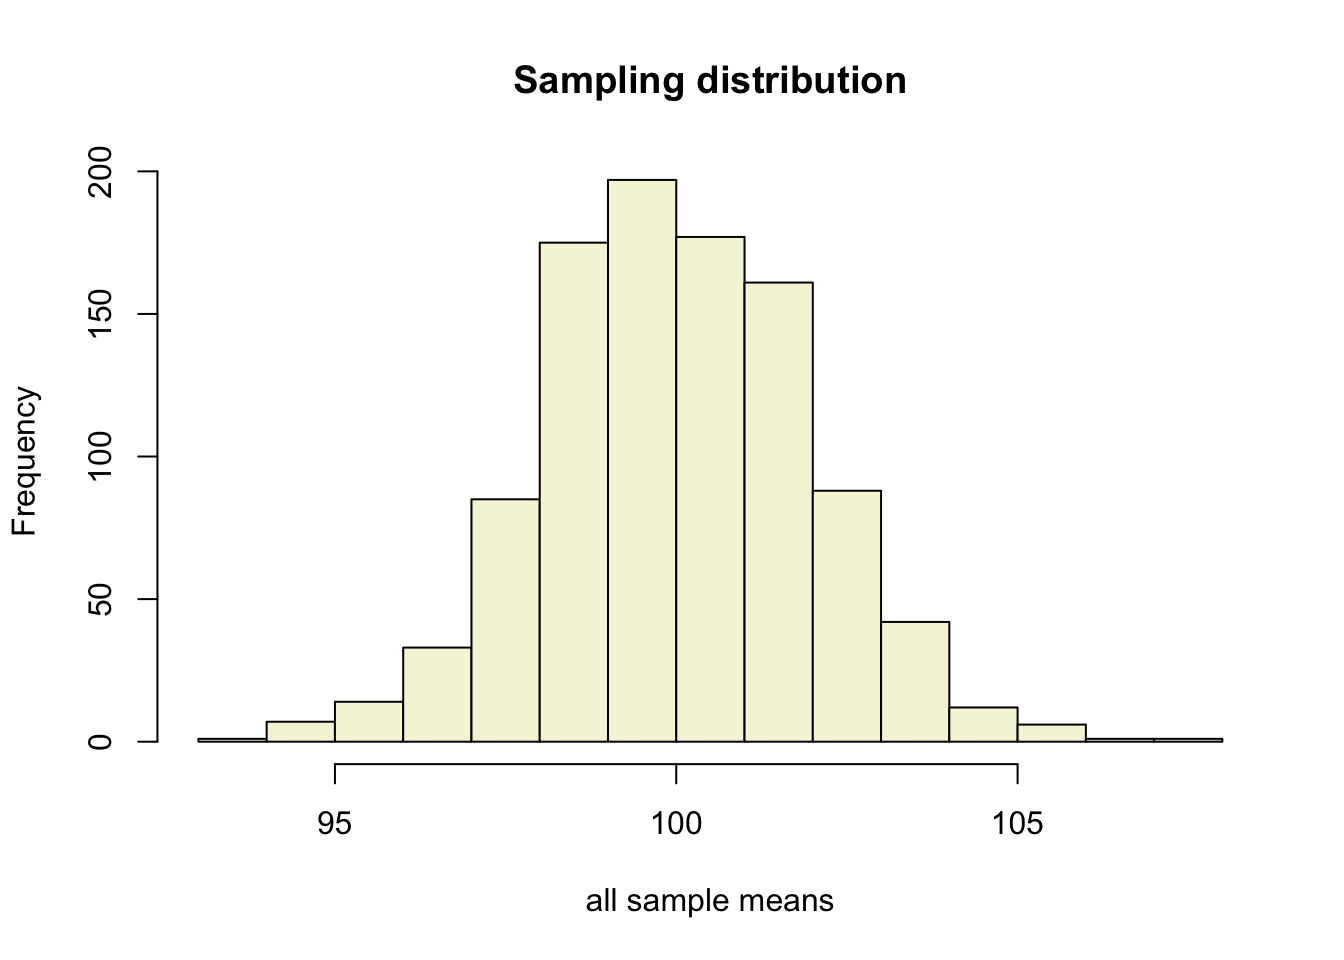
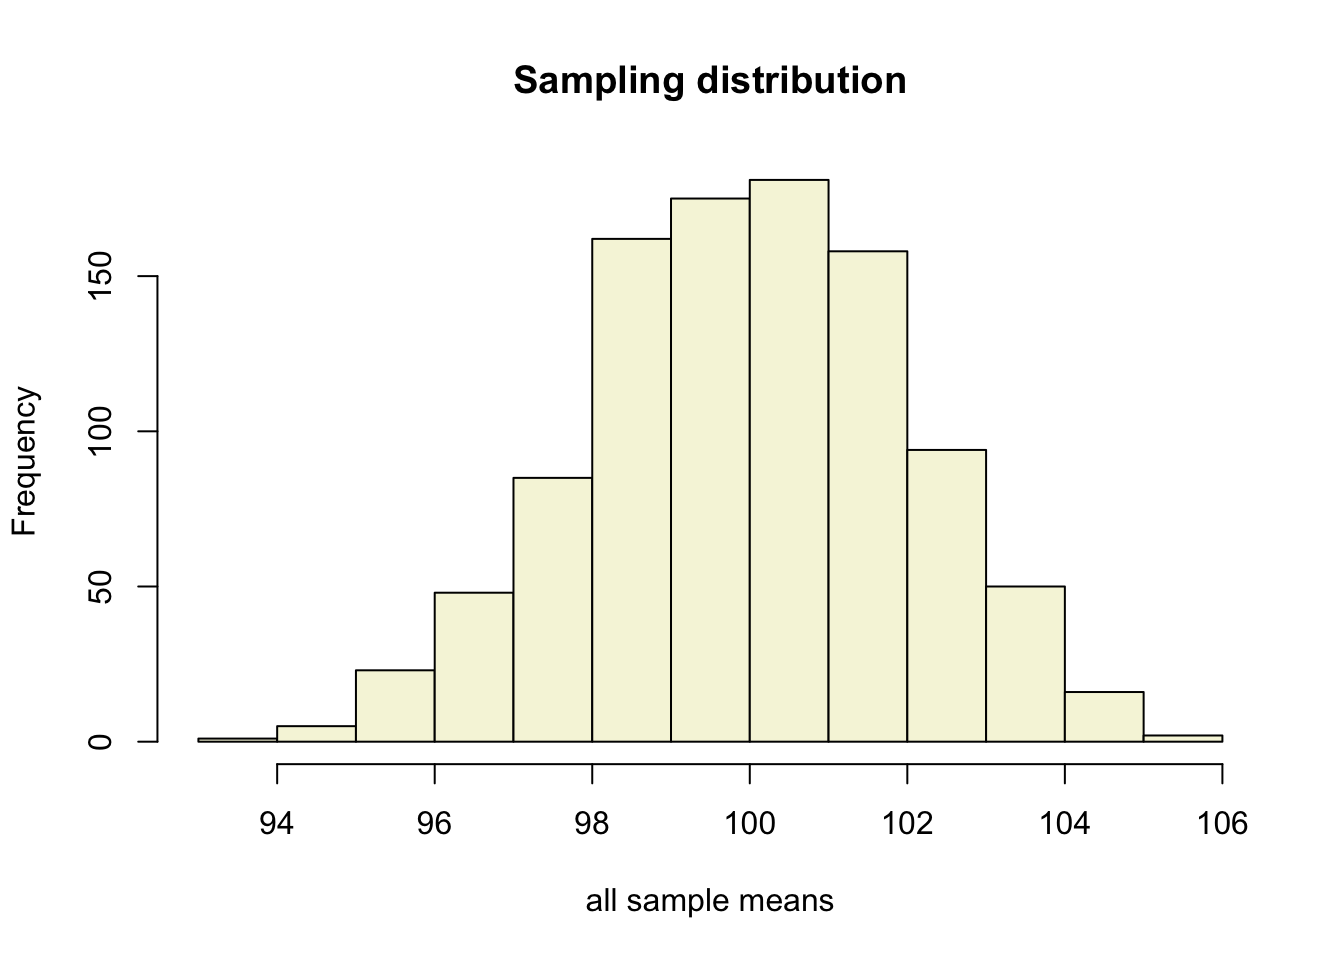
weird cell

diff --git a/courses/SSR/SSR_2023-2024/7. t_distribution_and_test/7. t_distribution_and_test.html b/courses/SSR/SSR_2023-2024/7. t_distribution_and_test/7. t_distribution_and_test.html
@@ -263,14 +263,14 @@ pre > code.sourceCode > span > a:first-child::before { text-decoration: underlin
 <div class="cell">
 <div class="sourceCode cell-code" id="cb2"><pre class="sourceCode r code-with-copy"><code class="sourceCode r"><span id="cb2-1"><a href="#cb2-1" aria-hidden="true" tabindex="-1"></a>x <span class="ot">&lt;-</span> <span class="fu">rnorm</span>(n, mu, sigma); x</span></code><button title="Copy to Clipboard" class="code-copy-button"><i class="bi"></i></button></pre></div>
 <div class="cell-output cell-output-stdout">
-<pre><code> [1] 106.61471  96.69208 103.05806 109.64763 103.94144 127.33282  82.16443
- [8] 121.25621 108.95569 109.42284 120.80316 106.09926 107.80408  99.80659
-[15] 108.96825 116.48962 117.59526 102.21007  93.63240  84.18790 100.96647
-[22]  96.04047 127.95559 100.71916  84.99554 112.83489  86.70702 111.36272
-[29] 104.94195 123.30431  89.80214  97.43633  82.67958  88.00506  72.20622
-[36]  99.51324 112.97421  92.25787  98.15301  91.95618 106.06002 122.93823
-[43] 114.37223 118.71460  86.95058  98.95727 107.61321 103.83504  98.73776
-[50]  86.87520  54.34775  89.00092 114.72518 101.22989 116.20537  83.09240</code></pre>
+<pre><code> [1] 117.53806 112.38659 109.41768  79.33235 116.83543 104.21535 122.87857
+ [8]  94.90843  89.48618 112.91395  99.20825 106.46184 131.74004  82.14418
+[15] 111.57398 109.79243  97.72677  83.79089  81.78326 100.89139 115.10130
+[22]  75.32715 112.22988 123.98195  73.17591  95.92838  92.59950  66.89840
+[29]  88.61695  94.91262 104.45585 102.52563  86.30557  75.25092  81.44598
+[36] 105.77969  74.25070  74.97944  95.27278  95.53276  91.96889  72.08836
+[43] 103.09970  96.06886  86.66781 103.81329 108.40771  97.02685  73.56282
+[50]  92.51813 103.11531 124.09075  83.25787 105.63971  95.17608 121.76949</code></pre>
 </div>
 </div>
 <div class="cell" data-output-location="slide">
@@ -302,12 +302,12 @@ pre > code.sourceCode > span > a:first-child::before { text-decoration: underlin
 <div class="sourceCode cell-code" id="cb6"><pre class="sourceCode r code-with-copy"><code class="sourceCode r"><span id="cb6-1"><a href="#cb6-1" aria-hidden="true" tabindex="-1"></a><span class="fu">head</span>(<span class="fu">cbind</span>(mean.x.values, se.x.values))</span></code><button title="Copy to Clipboard" class="code-copy-button"><i class="bi"></i></button></pre></div>
 <div class="cell-output cell-output-stdout">
 <pre><code>     mean.x.values se.x.values
-[1,]      99.33111    2.087445
-[2,]     101.11219    1.828331
-[3,]     101.80348    1.733201
-[4,]     101.61086    2.204491
-[5,]     101.92652    2.254120
-[6,]     101.70653    1.755069</code></pre>
+[1,]     102.07447    1.745172
+[2,]     102.99124    2.057352
+[3,]     100.64180    1.903556
+[4,]     100.55701    2.010758
+[5,]     100.88848    1.800400
+[6,]      99.63374    1.737883</code></pre>
 </div>
 </div>
 </section>
@@ -336,7 +336,7 @@ pre > code.sourceCode > span > a:first-child::before { text-decoration: underlin
 <div class="sourceCode cell-code" id="cb9"><pre class="sourceCode r code-with-copy"><code class="sourceCode r"><span id="cb9-1"><a href="#cb9-1" aria-hidden="true" tabindex="-1"></a>tStat <span class="ot">&lt;-</span> (<span class="fu">mean</span>(x) <span class="sc">-</span> mu) <span class="sc">/</span> (<span class="fu">sd</span>(x) <span class="sc">/</span> <span class="fu">sqrt</span>(n))</span>
 <span id="cb9-2"><a href="#cb9-2" aria-hidden="true" tabindex="-1"></a>tStat</span></code><button title="Copy to Clipboard" class="code-copy-button"><i class="bi"></i></button></pre></div>
 <div class="cell-output cell-output-stdout">
-<pre><code>[1] 0.7275644</code></pre>
+<pre><code>[1] 0.4982306</code></pre>
 </div>
 </div>
 </section>
@@ -349,12 +349,12 @@ pre > code.sourceCode > span > a:first-child::before { text-decoration: underlin
 <span id="cb11-3"><a href="#cb11-3" aria-hidden="true" tabindex="-1"></a><span class="fu">tail</span>(<span class="fu">cbind</span>(mean.x.values, mu, se.x.values, t.values))</span></code><button title="Copy to Clipboard" class="code-copy-button"><i class="bi"></i></button></pre></div>
 <div class="cell-output cell-output-stdout">
 <pre><code>        mean.x.values  mu se.x.values    t.values
- [995,]     100.76036 100    1.731927  0.43902714
- [996,]      99.85391 100    2.623274 -0.05568831
- [997,]     100.58075 100    1.994256  0.29121315
- [998,]     101.10968 100    1.877417  0.59106980
- [999,]     100.82136 100    1.780318  0.46135853
-[1000,]     101.27160 100    1.747750  0.72756439</code></pre>
+ [995,]      99.97570 100    2.243663 -0.01083213
+ [996,]      96.32796 100    1.385291 -2.65073326
+ [997,]     103.94855 100    2.027419  1.94757390
+ [998,]      99.13848 100    1.760369 -0.48939686
+ [999,]      99.40001 100    1.889816 -0.31748430
+[1000,]     101.10426 100    2.216369  0.49823059</code></pre>
 </div>
 </div>
 </section>
@@ -451,12 +451,12 @@ pre > code.sourceCode > span > a:first-child::before { text-decoration: underlin
 <span id="cb18-3"><a href="#cb18-3" aria-hidden="true" tabindex="-1"></a><span class="fu">tail</span>(<span class="fu">cbind</span>(mean.x.values, mu, se.x.values, t.values, r))</span></code><button title="Copy to Clipboard" class="code-copy-button"><i class="bi"></i></button></pre></div>
 <div class="cell-output cell-output-stdout">
 <pre><code>        mean.x.values  mu se.x.values    t.values           r
- [995,]     100.76036 100    1.731927  0.43902714 0.059094950
- [996,]      99.85391 100    2.623274 -0.05568831 0.007508798
- [997,]     100.58075 100    1.994256  0.29121315 0.039236935
- [998,]     101.10968 100    1.877417  0.59106980 0.079447906
- [999,]     100.82136 100    1.780318  0.46135853 0.062089543
-[1000,]     101.27160 100    1.747750  0.72756439 0.097636036</code></pre>
+ [995,]      99.97570 100    2.243663 -0.01083213 0.001460602
+ [996,]      96.32796 100    1.385291 -2.65073326 0.336571847
+ [997,]     103.94855 100    2.027419  1.94757390 0.253998395
+ [998,]      99.13848 100    1.760369 -0.48939686 0.065847042
+ [999,]      99.40001 100    1.889816 -0.31748430 0.042770400
+[1000,]     101.10426 100    2.216369  0.49823059 0.067030304</code></pre>
 </div>
 </div>
 </section>
@@ -676,8 +676,8 @@ https://maglit.me/nomaphochs
 <div class="cell">
 <div class="cell-output-display">
 
-<div class="datatables html-widget html-fill-item-overflow-hidden html-fill-item" id="htmlwidget-b5740be1372b34428afd" style="width:100%;height:auto;"></div>
-<script type="application/json" data-for="htmlwidget-b5740be1372b34428afd">{"x":{"filter":"none","vertical":false,"data":[["1","2","3","4","5","6"],[105,95,130,140,120,123],[110,93,150,135,125,125]],"container":"<table class=\"display\">\n  <thead>\n    <tr>\n      <th> <\/th>\n      <th>ownIQ<\/th>\n      <th>nextIQ<\/th>\n    <\/tr>\n  <\/thead>\n<\/table>","options":{"searching":false,"scrollY":415,"paging":false,"info":false,"columnDefs":[{"className":"dt-right","targets":[1,2]},{"orderable":false,"targets":0}],"order":[],"autoWidth":false,"orderClasses":false}},"evals":[],"jsHooks":[]}</script>
+<div class="datatables html-widget html-fill-item-overflow-hidden html-fill-item" id="htmlwidget-e19c51d14e0dfcfd7160" style="width:100%;height:auto;"></div>
+<script type="application/json" data-for="htmlwidget-e19c51d14e0dfcfd7160">{"x":{"filter":"none","vertical":false,"data":[["1","2","3","4","5","6"],[105,95,130,140,120,123],[110,93,150,135,125,125]],"container":"<table class=\"display\">\n  <thead>\n    <tr>\n      <th> <\/th>\n      <th>ownIQ<\/th>\n      <th>nextIQ<\/th>\n    <\/tr>\n  <\/thead>\n<\/table>","options":{"searching":false,"scrollY":415,"paging":false,"info":false,"columnDefs":[{"className":"dt-right","targets":[1,2]},{"orderable":false,"targets":0}],"order":[],"autoWidth":false,"orderClasses":false}},"evals":[],"jsHooks":[]}</script>
 </div>
 </div>
 </section>
@@ -689,8 +689,8 @@ https://maglit.me/nomaphochs
 <div class="cell">
 <div class="cell-output-display">
 
-<div class="datatables html-widget html-fill-item-overflow-hidden html-fill-item" id="htmlwidget-0561f939dcd9c8b0dfb9" style="width:100%;height:auto;"></div>
-<script type="application/json" data-for="htmlwidget-0561f939dcd9c8b0dfb9">{"x":{"filter":"none","vertical":false,"data":[["1","2","3","4","5","6"],[105,95,130,140,120,123],[110,93,150,135,125,125],[5,-2,20,-5,5,2]],"container":"<table class=\"display\">\n  <thead>\n    <tr>\n      <th> <\/th>\n      <th>ownIQ<\/th>\n      <th>nextIQ<\/th>\n      <th>diffScores<\/th>\n    <\/tr>\n  <\/thead>\n<\/table>","options":{"searching":false,"scrollY":315,"paging":false,"info":false,"columnDefs":[{"className":"dt-right","targets":[1,2,3]},{"orderable":false,"targets":0}],"order":[],"autoWidth":false,"orderClasses":false}},"evals":[],"jsHooks":[]}</script>
+<div class="datatables html-widget html-fill-item-overflow-hidden html-fill-item" id="htmlwidget-15bf1f65c5b28ab651ff" style="width:100%;height:auto;"></div>
+<script type="application/json" data-for="htmlwidget-15bf1f65c5b28ab651ff">{"x":{"filter":"none","vertical":false,"data":[["1","2","3","4","5","6"],[105,95,130,140,120,123],[110,93,150,135,125,125],[5,-2,20,-5,5,2]],"container":"<table class=\"display\">\n  <thead>\n    <tr>\n      <th> <\/th>\n      <th>ownIQ<\/th>\n      <th>nextIQ<\/th>\n      <th>diffScores<\/th>\n    <\/tr>\n  <\/thead>\n<\/table>","options":{"searching":false,"scrollY":315,"paging":false,"info":false,"columnDefs":[{"className":"dt-right","targets":[1,2,3]},{"orderable":false,"targets":0}],"order":[],"autoWidth":false,"orderClasses":false}},"evals":[],"jsHooks":[]}</script>
 </div>
 </div>
 </section>
@@ -856,8 +856,8 @@ H_A &amp;: t &lt; 0 \\
 <div class="cell">
 <div class="cell-output-display">
 
-<div class="datatables html-widget html-fill-item-overflow-hidden html-fill-item" id="htmlwidget-872e4cd5fe0f104e61be" style="width:100%;height:auto;"></div>
-<script type="application/json" data-for="htmlwidget-872e4cd5fe0f104e61be">{"x":{"filter":"none","vertical":false,"data":[["1","2","3","4","5","6"],["front","back","back","front","back","front"],[105,95,130,140,120,123]],"container":"<table class=\"display\">\n  <thead>\n    <tr>\n      <th> <\/th>\n      <th>classPosition<\/th>\n      <th>ownIQ<\/th>\n    <\/tr>\n  <\/thead>\n<\/table>","options":{"searching":false,"scrollY":415,"paging":false,"info":false,"columnDefs":[{"className":"dt-right","targets":2},{"orderable":false,"targets":0}],"order":[],"autoWidth":false,"orderClasses":false}},"evals":[],"jsHooks":[]}</script>
+<div class="datatables html-widget html-fill-item-overflow-hidden html-fill-item" id="htmlwidget-f9e042d2c278248bec06" style="width:100%;height:auto;"></div>
+<script type="application/json" data-for="htmlwidget-f9e042d2c278248bec06">{"x":{"filter":"none","vertical":false,"data":[["1","2","3","4","5","6"],["front","back","back","front","back","front"],[105,95,130,140,120,123]],"container":"<table class=\"display\">\n  <thead>\n    <tr>\n      <th> <\/th>\n      <th>classPosition<\/th>\n      <th>ownIQ<\/th>\n    <\/tr>\n  <\/thead>\n<\/table>","options":{"searching":false,"scrollY":415,"paging":false,"info":false,"columnDefs":[{"className":"dt-right","targets":2},{"orderable":false,"targets":0}],"order":[],"autoWidth":false,"orderClasses":false}},"evals":[],"jsHooks":[]}</script>
 </div>
 </div>
 </section>

diff --git a/courses/SSR/SSR_2023-2024/7. t_distribution_and_test/7. t_distribution_and_test.slide.html b/courses/SSR/SSR_2023-2024/7. t_distribution_and_test/7. t_distribution_and_test.slide.html
@@ -476,14 +476,14 @@ Sharon Kinkenberg &amp; Johnny van Doorn
 <div class="cell">
 <div class="sourceCode cell-code" id="cb2"><pre class="sourceCode numberSource r number-lines code-with-copy"><code class="sourceCode r"><span id="cb2-1"><a href="#cb2-1"></a>x <span class="ot">&lt;-</span> <span class="fu">rnorm</span>(n, mu, sigma); x</span></code><button title="Copy to Clipboard" class="code-copy-button"><i class="bi"></i></button></pre></div>
 <div class="cell-output cell-output-stdout">
-<pre><code> [1] 109.50387 123.32918 103.45519  89.98819 113.79636  87.96661  82.15484
- [8] 100.72775 107.75589 102.92623 110.19467  91.21210 107.25389 104.57591
-[15] 107.29418  94.24408  85.49247 120.73458 107.31594  82.85638 104.24594
-[22] 101.04026 117.37017 111.39104  98.25443  71.45190  92.33377 116.43967
-[29] 107.34938 103.32399 100.19840  80.59589  95.91054  85.41034  97.72441
-[36] 103.06424  99.98795  95.85821 104.28279 103.43681  81.13839  87.48238
-[43] 104.07515  89.87334  79.71230 109.46800  97.85838  95.76457 115.19054
-[50]  87.31852  71.06055 113.95602 108.67949  88.50997 111.12960  83.42577</code></pre>
+<pre><code> [1]  59.27960  99.24255  96.79289  93.03482  93.94872  94.09566  87.58202
+ [8]  99.40563 104.82163  86.50496  78.90956 117.45615 103.10262 114.20939
+[15]  70.49708  98.28711  77.44410 109.05044 114.94502 122.12592  99.22094
+[22]  94.55495  93.75925 115.61154  88.23337 125.67492 102.40671 124.47937
+[29]  72.54703  65.03750  99.28812 110.60269  94.38953 102.12732 108.53464
+[36]  92.94886 100.97826  94.28002 101.80575 121.51801  96.62201 107.43024
+[43] 109.94268 114.72829  68.61922 105.83294 120.83244 110.66787 109.40741
+[50]  94.96010  78.28139 114.15849 108.66325 103.96079  90.11146 105.19180</code></pre>
 </div>
 </div>
 <div class="cell">
@@ -517,12 +517,12 @@ Sharon Kinkenberg &amp; Johnny van Doorn
 <div class="sourceCode cell-code" id="cb6"><pre class="sourceCode numberSource r number-lines code-with-copy"><code class="sourceCode r"><span id="cb6-1"><a href="#cb6-1"></a><span class="fu">head</span>(<span class="fu">cbind</span>(mean.x.values, se.x.values))</span></code><button title="Copy to Clipboard" class="code-copy-button"><i class="bi"></i></button></pre></div>
 <div class="cell-output cell-output-stdout">
 <pre><code>     mean.x.values se.x.values
-[1,]      99.08341    2.471673
-[2,]     100.71420    2.052064
-[3,]     102.16542    1.883816
-[4,]     101.57865    2.015512
-[5,]      97.42882    2.125613
-[6,]     100.52867    1.877879</code></pre>
+[1,]      99.22830    2.118250
+[2,]     100.27266    2.118628
+[3,]     105.93935    1.947528
+[4,]     103.50759    2.154585
+[5,]      98.02277    1.947788
+[6,]      99.08665    2.037494</code></pre>
 </div>
 </div>
 </section>
@@ -553,7 +553,7 @@ Sharon Kinkenberg &amp; Johnny van Doorn
 <div class="sourceCode cell-code" id="cb9"><pre class="sourceCode numberSource r number-lines code-with-copy"><code class="sourceCode r"><span id="cb9-1"><a href="#cb9-1"></a>tStat <span class="ot">&lt;-</span> (<span class="fu">mean</span>(x) <span class="sc">-</span> mu) <span class="sc">/</span> (<span class="fu">sd</span>(x) <span class="sc">/</span> <span class="fu">sqrt</span>(n))</span>
 <span id="cb9-2"><a href="#cb9-2"></a>tStat</span></code><button title="Copy to Clipboard" class="code-copy-button"><i class="bi"></i></button></pre></div>
 <div class="cell-output cell-output-stdout">
-<pre><code>[1] -0.2429432</code></pre>
+<pre><code>[1] 1.164435</code></pre>
 </div>
 </div>
 </section>
@@ -565,13 +565,13 @@ Sharon Kinkenberg &amp; Johnny van Doorn
 <span id="cb11-2"><a href="#cb11-2"></a></span>
 <span id="cb11-3"><a href="#cb11-3"></a><span class="fu">tail</span>(<span class="fu">cbind</span>(mean.x.values, mu, se.x.values, t.values))</span></code><button title="Copy to Clipboard" class="code-copy-button"><i class="bi"></i></button></pre></div>
 <div class="cell-output cell-output-stdout">
-<pre><code>        mean.x.values  mu se.x.values   t.values
- [995,]      97.55586 100    1.924227 -1.2701919
- [996,]     103.81238 100    1.958019  1.9470572
- [997,]      99.72374 100    2.033140 -0.1358776
- [998,]     103.00866 100    1.965100  1.5310451
- [999,]     100.91009 100    2.080190  0.4375020
-[1000,]      99.44609 100    2.280015 -0.2429432</code></pre>
+<pre><code>        mean.x.values  mu se.x.values    t.values
+ [995,]      98.76888 100    2.158704 -0.57030503
+ [996,]     100.74173 100    2.043826  0.36291258
+ [997,]      99.88741 100    1.812337 -0.06212325
+ [998,]      97.77723 100    2.025803 -1.09722937
+ [999,]     102.69401 100    2.302863  1.16985131
+[1000,]     102.52260 100    2.166374  1.16443507</code></pre>
 </div>
 </div>
 </section>
@@ -658,13 +658,13 @@ Sharon Kinkenberg &amp; Johnny van Doorn
 <p>We can also calculate effect-sizes <span class="math inline">\(r\)</span> for all our calculated t-values. Under the assumption of <span class="math inline">\(H_0\)</span> the effect-size distribution looks like this.</p>
 <div class="cell">
 <div class="cell-output cell-output-stdout">
-<pre><code>        mean.x.values  mu se.x.values   t.values          r
- [995,]      97.55586 100    1.924227 -1.2701919 0.16881451
- [996,]     103.81238 100    1.958019  1.9470572 0.25393536
- [997,]      99.72374 100    2.033140 -0.1358776 0.01831866
- [998,]     103.00866 100    1.965100  1.5310451 0.20218252
- [999,]     100.91009 100    2.080190  0.4375020 0.05889037
-[1000,]      99.44609 100    2.280015 -0.2429432 0.03274090</code></pre>
+<pre><code>        mean.x.values  mu se.x.values    t.values           r
+ [995,]      98.76888 100    2.158704 -0.57030503 0.076673540
+ [996,]     100.74173 100    2.043826  0.36291258 0.048876637
+ [997,]      99.88741 100    1.812337 -0.06212325 0.008376403
+ [998,]      97.77723 100    2.025803 -1.09722937 0.146357219
+ [999,]     102.69401 100    2.302863  1.16985131 0.155816063
+[1000,]     102.52260 100    2.166374  1.16443507 0.155112053</code></pre>
 </div>
 </div>
 </section>
@@ -879,8 +879,8 @@ https://maglit.me/nomaphochs
 <div class="cell">
 <div class="cell-output-display">
 
-<div class="datatables html-widget html-fill-item-overflow-hidden html-fill-item" id="htmlwidget-c9235a35388c863dcbee" style="width:100%;height:auto;"></div>
-<script type="application/json" data-for="htmlwidget-c9235a35388c863dcbee">{"x":{"filter":"none","vertical":false,"data":[["1","2","3","4","5","6"],[105,95,130,140,120,123],[110,93,150,135,125,125]],"container":"<table class=\"display\">\n  <thead>\n    <tr>\n      <th> <\/th>\n      <th>ownIQ<\/th>\n      <th>nextIQ<\/th>\n    <\/tr>\n  <\/thead>\n<\/table>","options":{"searching":false,"scrollY":415,"paging":false,"info":false,"columnDefs":[{"className":"dt-right","targets":[1,2]},{"orderable":false,"targets":0}],"order":[],"autoWidth":false,"orderClasses":false}},"evals":[],"jsHooks":[]}</script>
+<div class="datatables html-widget html-fill-item-overflow-hidden html-fill-item" id="htmlwidget-cde9845857cc0554bf8c" style="width:100%;height:auto;"></div>
+<script type="application/json" data-for="htmlwidget-cde9845857cc0554bf8c">{"x":{"filter":"none","vertical":false,"data":[["1","2","3","4","5","6"],[105,95,130,140,120,123],[110,93,150,135,125,125]],"container":"<table class=\"display\">\n  <thead>\n    <tr>\n      <th> <\/th>\n      <th>ownIQ<\/th>\n      <th>nextIQ<\/th>\n    <\/tr>\n  <\/thead>\n<\/table>","options":{"searching":false,"scrollY":415,"paging":false,"info":false,"columnDefs":[{"className":"dt-right","targets":[1,2]},{"orderable":false,"targets":0}],"order":[],"autoWidth":false,"orderClasses":false}},"evals":[],"jsHooks":[]}</script>
 </div>
 </div>
 </section>
@@ -892,8 +892,8 @@ https://maglit.me/nomaphochs
 <div class="cell">
 <div class="cell-output-display">
 
-<div class="datatables html-widget html-fill-item-overflow-hidden html-fill-item" id="htmlwidget-38a3356827e3a2532d26" style="width:100%;height:auto;"></div>
-<script type="application/json" data-for="htmlwidget-38a3356827e3a2532d26">{"x":{"filter":"none","vertical":false,"data":[["1","2","3","4","5","6"],[105,95,130,140,120,123],[110,93,150,135,125,125],[5,-2,20,-5,5,2]],"container":"<table class=\"display\">\n  <thead>\n    <tr>\n      <th> <\/th>\n      <th>ownIQ<\/th>\n      <th>nextIQ<\/th>\n      <th>diffScores<\/th>\n    <\/tr>\n  <\/thead>\n<\/table>","options":{"searching":false,"scrollY":315,"paging":false,"info":false,"columnDefs":[{"className":"dt-right","targets":[1,2,3]},{"orderable":false,"targets":0}],"order":[],"autoWidth":false,"orderClasses":false}},"evals":[],"jsHooks":[]}</script>
+<div class="datatables html-widget html-fill-item-overflow-hidden html-fill-item" id="htmlwidget-00a486f27897c8bf23de" style="width:100%;height:auto;"></div>
+<script type="application/json" data-for="htmlwidget-00a486f27897c8bf23de">{"x":{"filter":"none","vertical":false,"data":[["1","2","3","4","5","6"],[105,95,130,140,120,123],[110,93,150,135,125,125],[5,-2,20,-5,5,2]],"container":"<table class=\"display\">\n  <thead>\n    <tr>\n      <th> <\/th>\n      <th>ownIQ<\/th>\n      <th>nextIQ<\/th>\n      <th>diffScores<\/th>\n    <\/tr>\n  <\/thead>\n<\/table>","options":{"searching":false,"scrollY":315,"paging":false,"info":false,"columnDefs":[{"className":"dt-right","targets":[1,2,3]},{"orderable":false,"targets":0}],"order":[],"autoWidth":false,"orderClasses":false}},"evals":[],"jsHooks":[]}</script>
 </div>
 </div>
 </section>
@@ -1062,8 +1062,8 @@ H_A &amp;: t &lt; 0 \\
 <div class="cell">
 <div class="cell-output-display">
 
-<div class="datatables html-widget html-fill-item-overflow-hidden html-fill-item" id="htmlwidget-3bf628c70ecc8ce55a1c" style="width:100%;height:auto;"></div>
-<script type="application/json" data-for="htmlwidget-3bf628c70ecc8ce55a1c">{"x":{"filter":"none","vertical":false,"data":[["1","2","3","4","5","6"],["front","back","back","front","back","front"],[105,95,130,140,120,123]],"container":"<table class=\"display\">\n  <thead>\n    <tr>\n      <th> <\/th>\n      <th>classPosition<\/th>\n      <th>ownIQ<\/th>\n    <\/tr>\n  <\/thead>\n<\/table>","options":{"searching":false,"scrollY":415,"paging":false,"info":false,"columnDefs":[{"className":"dt-right","targets":2},{"orderable":false,"targets":0}],"order":[],"autoWidth":false,"orderClasses":false}},"evals":[],"jsHooks":[]}</script>
+<div class="datatables html-widget html-fill-item-overflow-hidden html-fill-item" id="htmlwidget-79dfadb9e4c0760002e5" style="width:100%;height:auto;"></div>
+<script type="application/json" data-for="htmlwidget-79dfadb9e4c0760002e5">{"x":{"filter":"none","vertical":false,"data":[["1","2","3","4","5","6"],["front","back","back","front","back","front"],[105,95,130,140,120,123]],"container":"<table class=\"display\">\n  <thead>\n    <tr>\n      <th> <\/th>\n      <th>classPosition<\/th>\n      <th>ownIQ<\/th>\n    <\/tr>\n  <\/thead>\n<\/table>","options":{"searching":false,"scrollY":415,"paging":false,"info":false,"columnDefs":[{"className":"dt-right","targets":2},{"orderable":false,"targets":0}],"order":[],"autoWidth":false,"orderClasses":false}},"evals":[],"jsHooks":[]}</script>
 </div>
 </div>
 </section>
